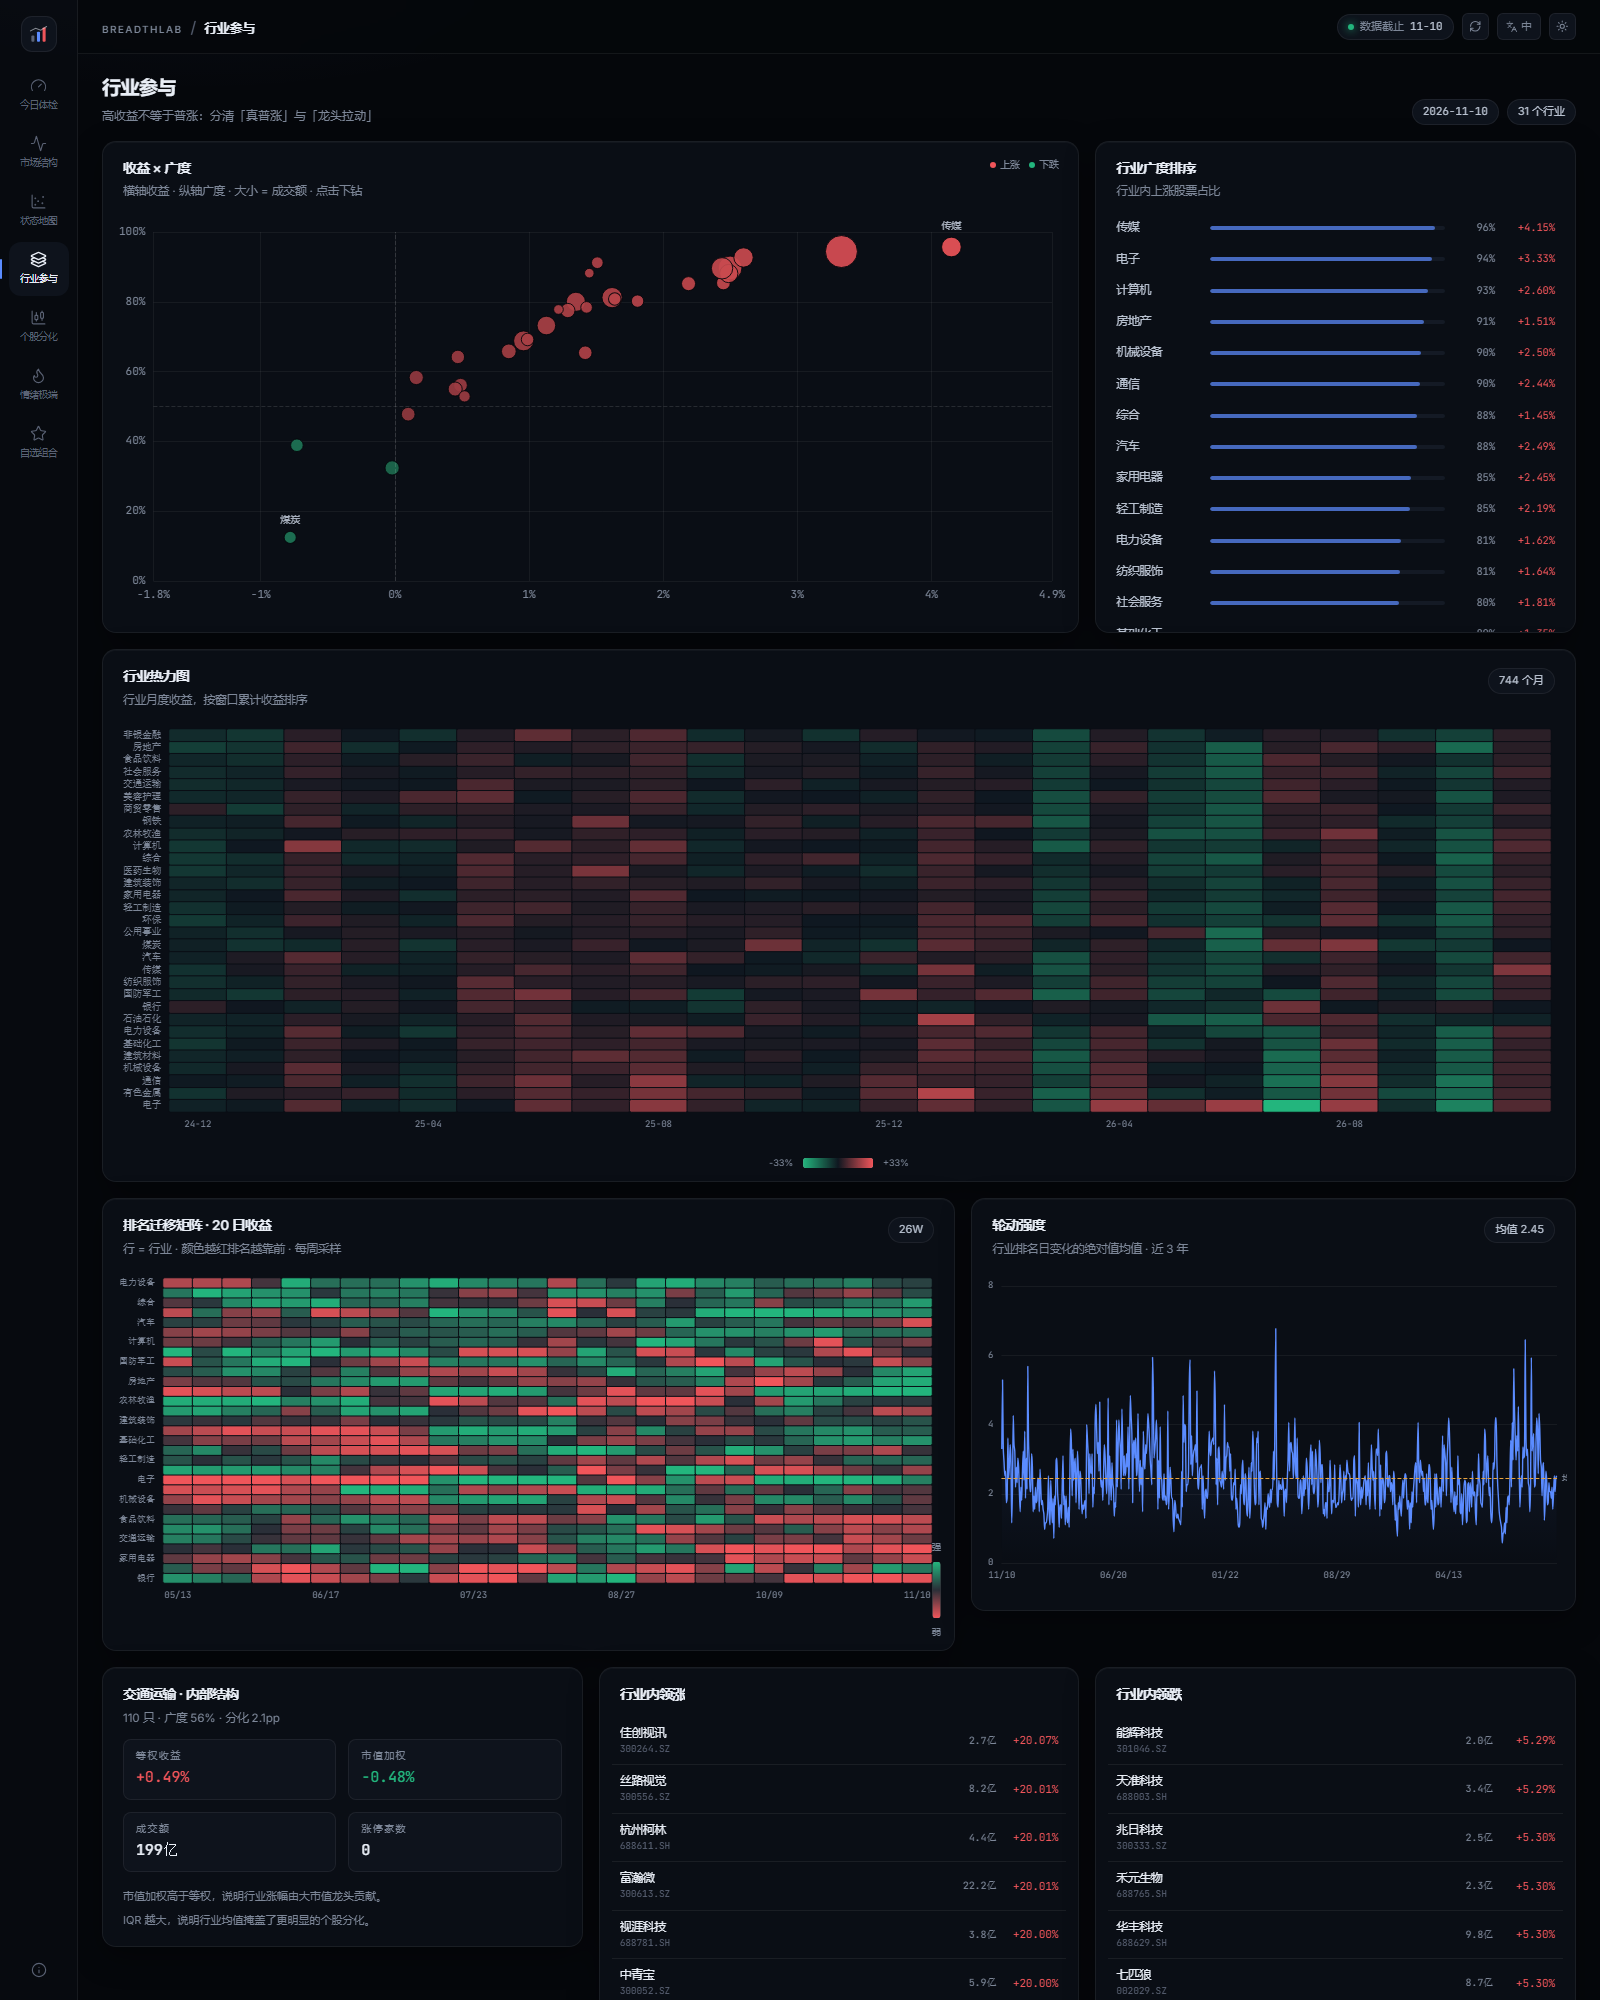
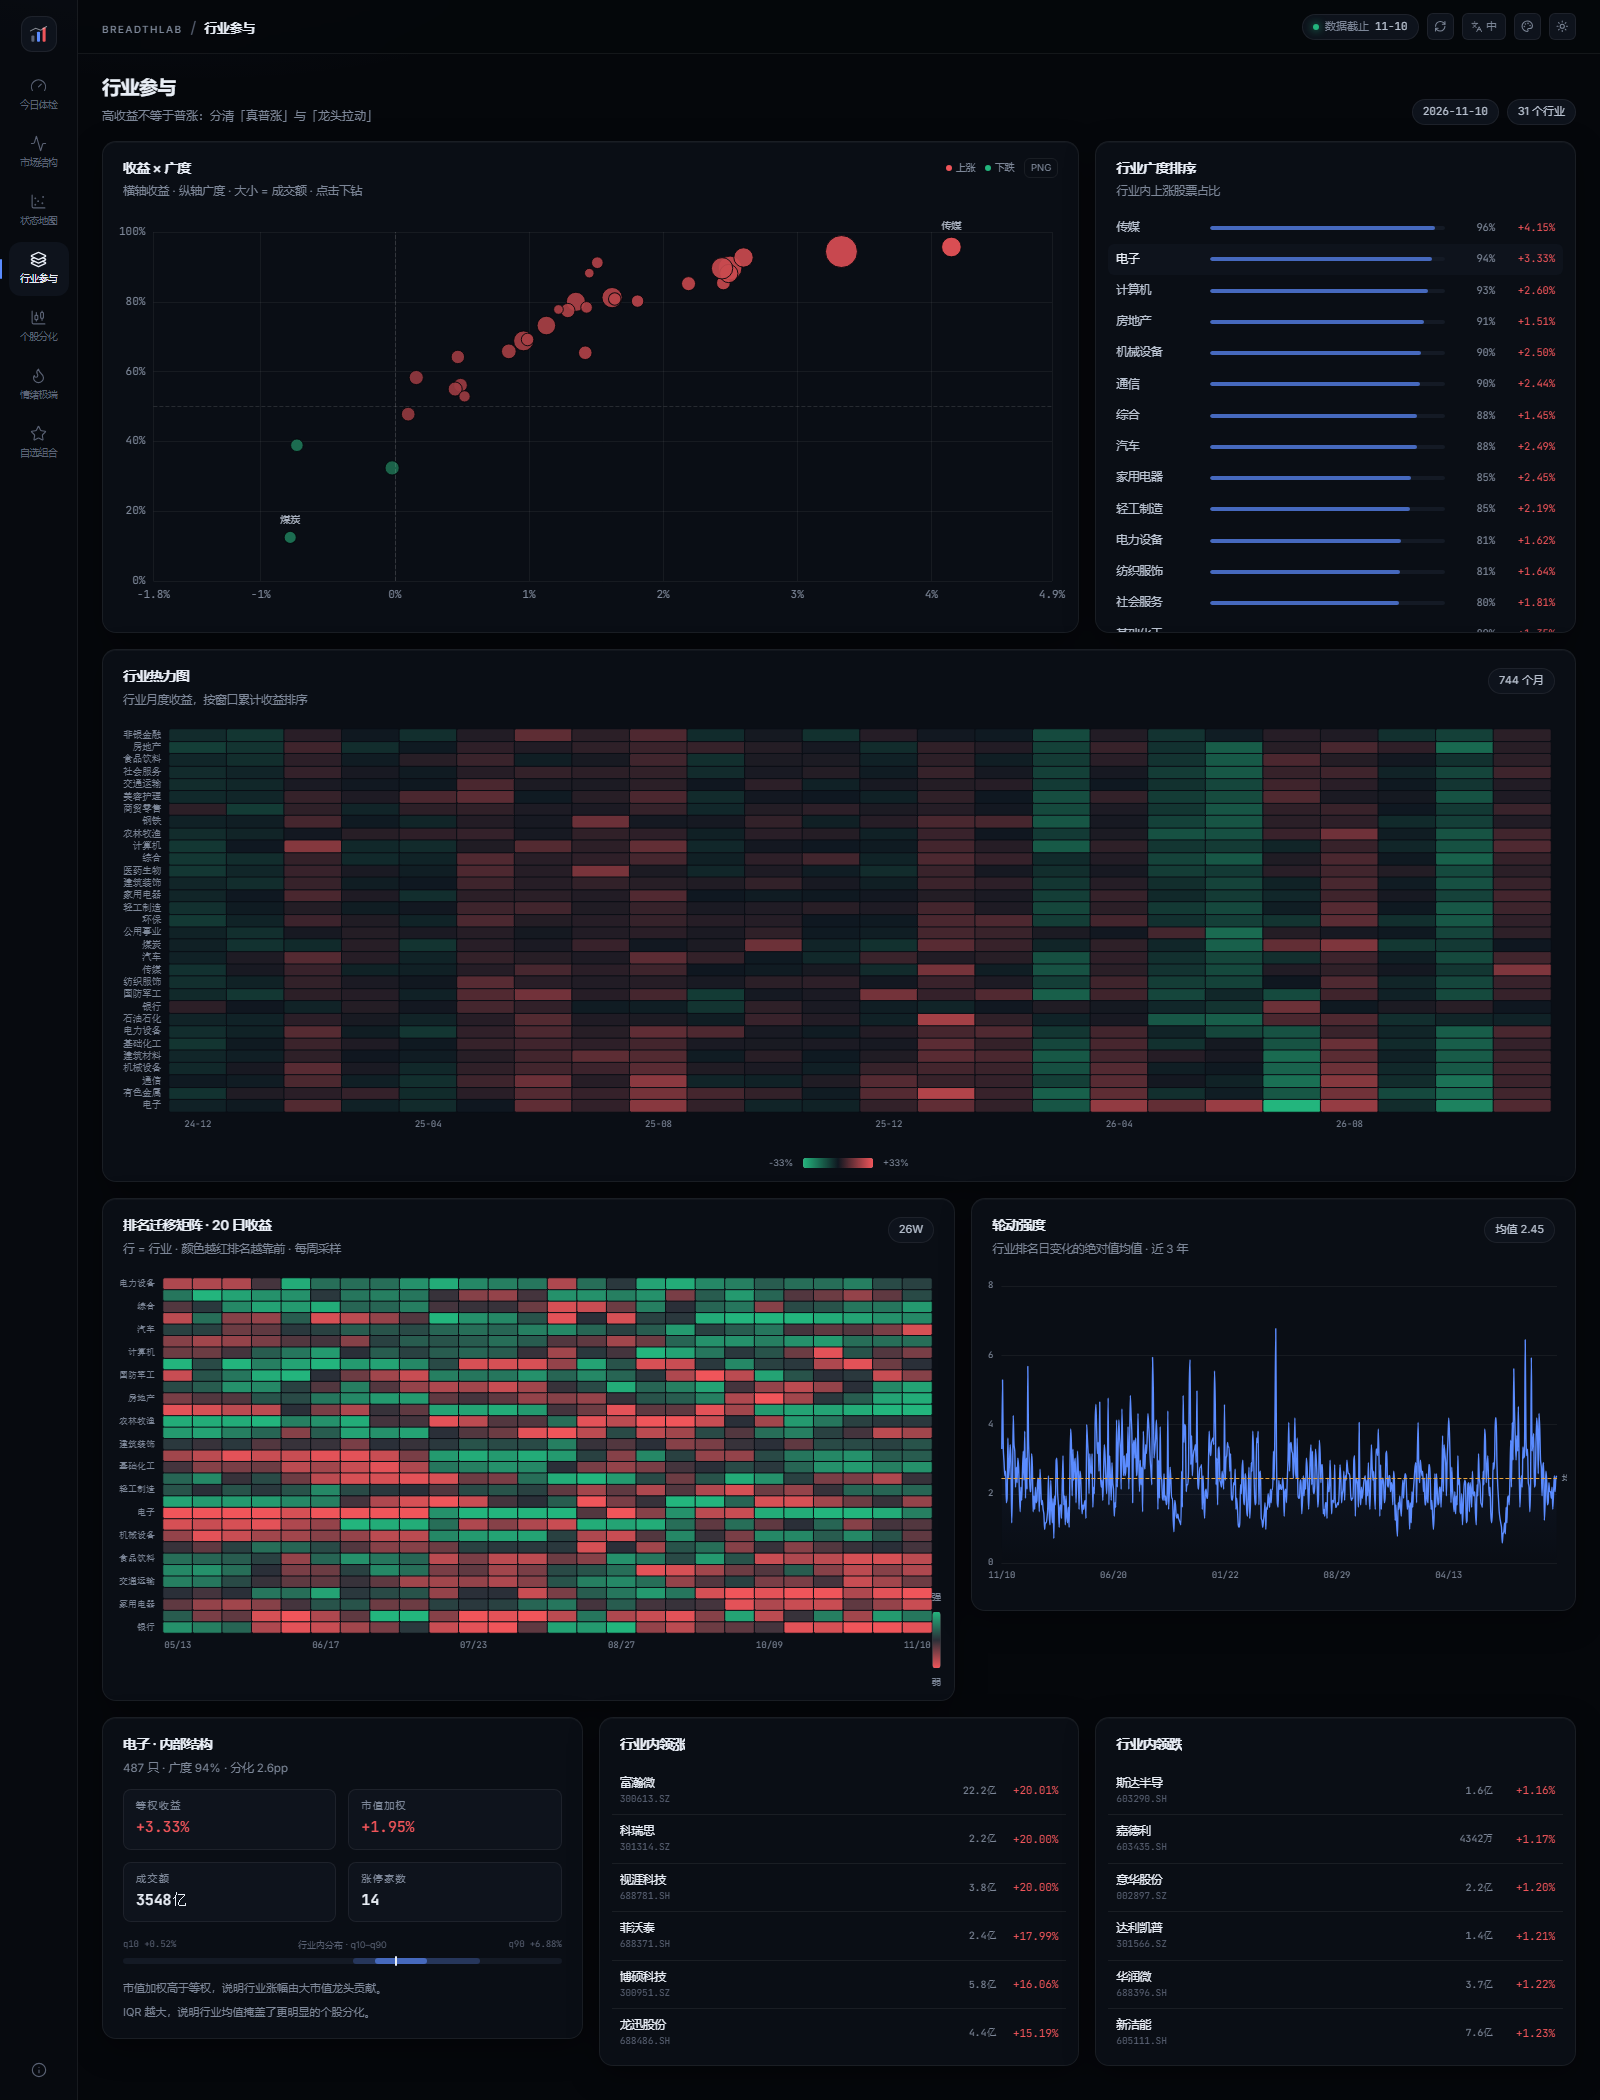
feat(sectors): q10-q90 distribution bar; add MIT license and gitattributes

diff --git a/frontend/src/pages/Sectors.tsx b/frontend/src/pages/Sectors.tsx
@@ -247,6 +247,46 @@ export default function Sectors() {
                 </div>
               ))}
             </div>
+
+            {selRow ? (
+              <div className="mt-4">
+                <div className="flex items-center justify-between text-[9px] text-[var(--faint)]">
+                  <span className="mono">q10 {pct(selRow.q10 ?? null)}</span>
+                  <span>{lang === "en" ? "inside distribution · q10–q90" : "行业内分布 · q10–q90"}</span>
+                  <span className="mono">q90 {pct(selRow.q90 ?? null)}</span>
+                </div>
+                <div className="relative mt-1.5 h-[6px] rounded-full bg-[var(--panel-3)]">
+                  <div
+                    className="absolute inset-y-0 rounded-full bg-[var(--accent)]/25"
+                    style={{
+                      left: `${Math.max(0, Math.min(100, (((selRow.q10 ?? 0) * 100 + 11) / 22) * 100))}%`,
+                      width: `${Math.max(
+                        2,
+                        Math.min(
+                          100,
+                          ((((selRow.q90 ?? 0) - (selRow.q10 ?? 0)) * 100) / 22) * 100,
+                        ),
+                      )}%`,
+                    }}
+                  />
+                  <div
+                    className="absolute inset-y-0 rounded-full bg-[var(--accent)]/60"
+                    style={{
+                      left: `${Math.max(0, Math.min(100, (((selRow.q25 ?? 0) * 100 + 11) / 22) * 100))}%`,
+                      width: `${Math.max(
+                        1,
+                        Math.min(100, ((((selRow.q75 ?? 0) - (selRow.q25 ?? 0)) * 100) / 22) * 100),
+                      )}%`,
+                    }}
+                  />
+                  <div
+                    className="absolute -top-[2px] h-[10px] w-[2px] rounded bg-[var(--text)]"
+                    style={{ left: `${Math.max(0, Math.min(99, (((selRow.med_ret ?? 0) * 100 + 11) / 22) * 100))}%` }}
+                  />
+                </div>
+              </div>
+            ) : null}
+
             <div className="mt-4 space-y-1.5 text-[11px] leading-relaxed text-[var(--muted)]">
               <p>
                 {lang === "en"

diff --git a/frontend/src/lib/api.ts b/frontend/src/lib/api.ts
@@ -89,6 +89,8 @@ export interface SectorDay {
   cw_ret: number;
   q25: number;
   q75: number;
+  q10?: number;
+  q90?: number;
   iqr: number;
   csd: number;
   amount: number;

diff --git a/pipeline/build_marts.py b/pipeline/build_marts.py
@@ -245,8 +245,10 @@ SELECT trade_date, sw_l1,
        avg(ret)                                          AS ew_ret,
        median(ret)                                       AS med_ret,
        sum(weight * ret)                                 AS cw_ret,
+       quantile_cont(ret, 0.10)                          AS q10,
        quantile_cont(ret, 0.25)                          AS q25,
        quantile_cont(ret, 0.75)                          AS q75,
+       quantile_cont(ret, 0.90)                          AS q90,
        (quantile_cont(ret, 0.75) - quantile_cont(ret, 0.25)) AS iqr,
        stddev_samp(ret)                                  AS csd,
        sum(amount) * 1000                                AS amount,

diff --git a/pipeline/export_static.py b/pipeline/export_static.py
@@ -68,7 +68,7 @@ def build_payload(con) -> dict:
     sectors_rows = rows(
         """
         SELECT trade_date::VARCHAR AS trade_date, sw_l1, n, n_adv, n_dec, breadth, ew_ret, cw_ret,
-               med_ret, q25, q75, iqr, csd, amount, turnover_rate, limit_up_n
+               med_ret, q10, q25, q75, q90, iqr, csd, amount, turnover_rate, limit_up_n
         FROM mart_sector_day
         WHERE trade_date >= (SELECT max(trade_date) - INTERVAL 3 YEAR FROM mart_sector_day)
         ORDER BY trade_date, sw_l1

diff --git a/docs/status.md b/docs/status.md
@@ -31,7 +31,7 @@
 | P1 今日体检 | 结论、6 KPI、广度图、Top10 贡献、行业榜、分布 | 异动提示卡、贡献瀑布、KPI 点击跳转 |
 | P2 市场结构 | 双联图、集中度、分化度、区间统计 | 状态色带、刷选联动、指数/权重对照线不完整 |
 | P3 状态地图 | 散点、轨迹、四状态统计、相似日 | 状态平均持续、后续 5/20 日（描述性） |
-| P4 行业参与 | 气泡、热力图、行业强弱、排名迁移矩阵、轮动强度 | q10–q90 迷你箱线 |
+| P4 行业参与 | 气泡、热力图、行业强弱、排名迁移矩阵、轮动强度、q10–q90 分布条 | — |
 | P5 个股分化 | 市值×收益散点、分布、明细表、详情卡、K 线 | 估值分位、行业内排名百分位 |
 | P6 情绪极端 | 涨跌停、连板、新高新低、两融/资金流、封板质量 | 北向历史（口径断裂，已剔除） |
 | P7 自选组合 | 自选、股数/成本/盈亏/权重、CSV 导入导出 | Brinson（已定暂缓） |
@@ -102,4 +102,4 @@
 
 **仅剩**
 1. **GitHub 推送**：仓库已就绪（11 个提交、工作区干净），需要 remote 地址。
-2. 可选增强：q10–q90 迷你箱线、估值分位、Brinson 归因、桌面/SMTP 告警、loguru。
+2. 可选增强：历史估值分位、Brinson 归因、桌面/SMTP 告警、loguru。

diff --git a/README.md b/README.md
@@ -198,3 +198,9 @@ breadthlab/
 - [ ] 自选组合的持仓成本/盈亏与 Brinson 简化归因
 - [ ] 数据质量看板（最近 30 天门禁结果、源间对账）
 - [x] 移动端布局（底部导航 + 单列）
+
+---
+
+## 7. License
+
+MIT © 2026 BreadthLab contributors
